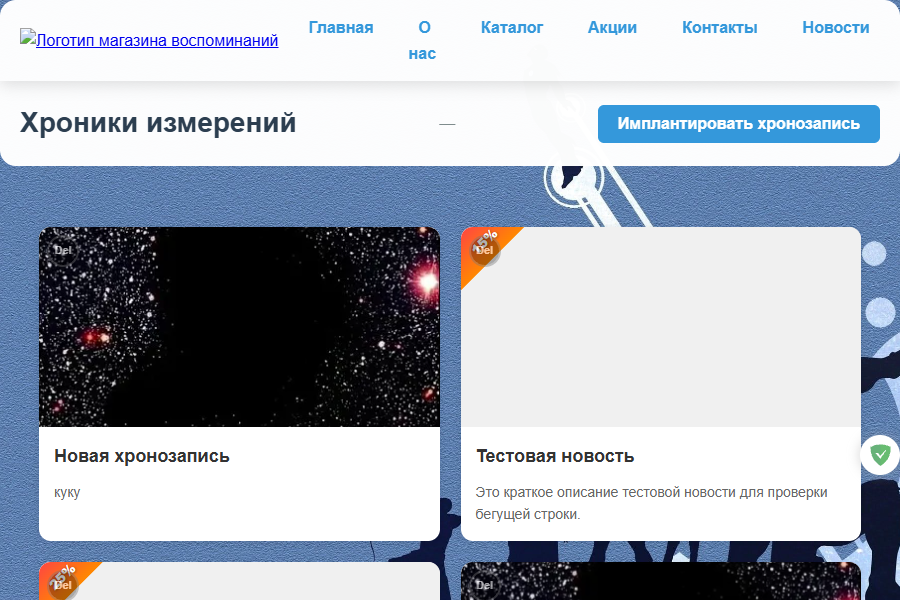
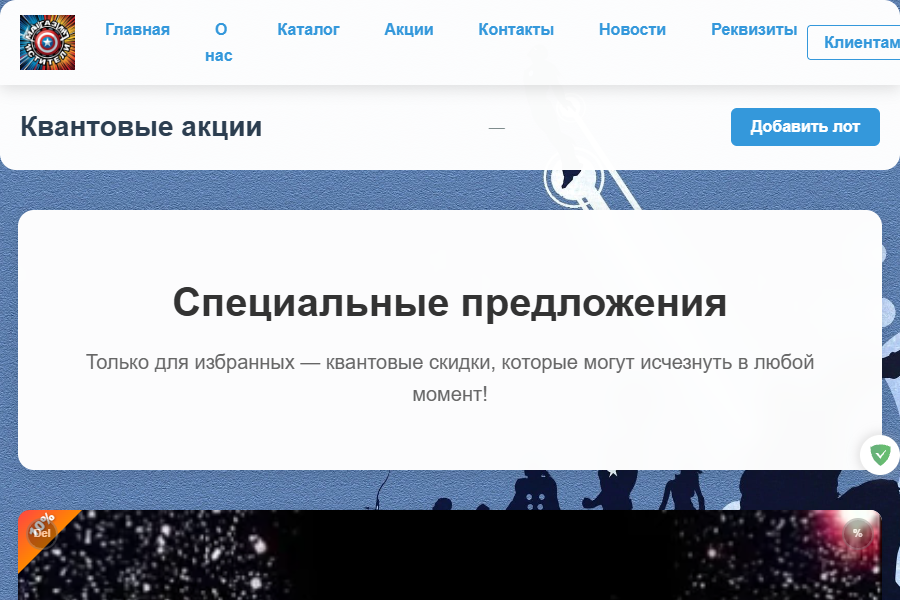
0222

diff --git a/static/js/main.js b/static/js/main.js
@@ -45,7 +45,7 @@ class MainApp {
             this.container = document.querySelector('.news-grid');
         } else if (path.includes('catalog.html')) {
             this.currentPage = 'catalog';
-            this.container = document.querySelector('.news-grid');
+            this.container = document.querySelector('.products-grid');
         } else if (path.includes('actions.html')) {
             this.currentPage = 'actions';
             this.container = document.querySelector('.products-grid');

diff --git a/catalog.html b/catalog.html
@@ -123,8 +123,8 @@
     </div>
 
     <main>
-        <section class="news-container">
-            <div class="news-grid"></div>
+        <section class="catalog">
+            <div class="products-grid"></div>
         </section>
     </main>
 
